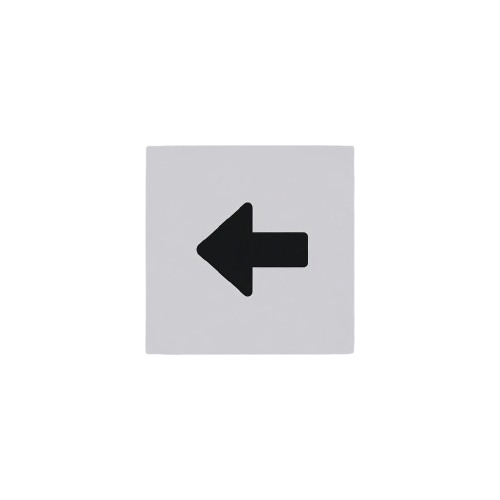
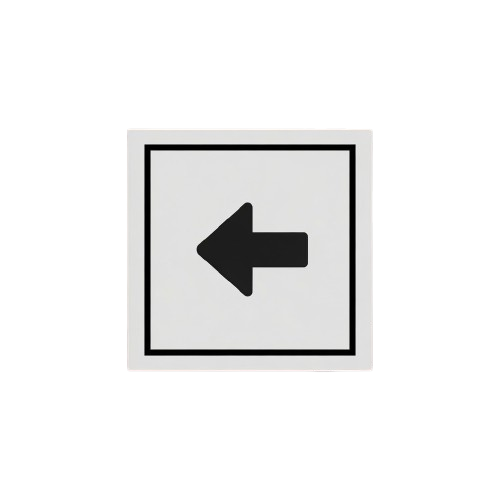
This is actually disgusting

Changed region(s): [[0.24, 0.24, 0.75, 0.75]]

diff --git a/interface.py b/interface.py
@@ -286,64 +286,107 @@ class DoubleCheckbox(Checkbox):
                 self._click()
             elif self.__rect2.collidepoint(*pygame.mouse.get_pos()[:2]):
                 self._antiClick()
-            
+
 class Image_Button(Input):
-    def __init__(self, window : pygame.surface.Surface, x : int, y : int, variable : str, path_1 : str, path_2 : str = None, scale_factor_1 : Tuple[int] = None, scale_factor_2 : Tuple[int] = None, key_bind : str = None):
-        """Creates button to be placed on screen"""
+    def __init__(self, window : pygame.surface.Surface, x : int, y : int, variable : str, image_path : str, scale_factor : Tuple[int] = (1,1), key_bind : str = None):
+        """Creates image button to be placed on screen"""
         self.__window = window
         self.__variable = variable
         self.__state = False
-        self.__off_shape = pygame.transform.scale_by(pygame.image.load(path_1).convert_alpha(), scale_factor_1)
-        self.__off_rect = self.__off_shape.get_rect()
-        self.__off_rect.center = (x, y)
-        self.__two_image_state = False
-        
 
-        if path_2:
-            self.__on_shape = pygame.transform.scale_by(pygame.image.load(path_2).convert_alpha(), scale_factor_2)
-            self.__on_rect = self.__on_shape.get_rect()
-            self.__on_rect.center = (x, y)
-            self.__two_image_state = True
-        
-        
+        self.__shape = pygame.transform.scale_by(pygame.image.load(image_path).convert_alpha(), scale_factor)
+        self.__rect = self.__shape.get_rect()
+        self.__rect.center = (x,y)
+
         try:
             self.__key_bind = pygame.key.key_code(key_bind)
         except TypeError:
             self.__key_bind = False
 
+
+    def place(self):
+        """Blits the image of the button"""
+        self.__window.blit(self.__shape, self.__rect)
+        
+    
+    def checkInteract(self, event : pygame.event.Event, keys : List[bool] = None):
+        """Checks for interactions"""
+        if tapping(event):
+            if self.__rect.collidepoint(*pygame.mouse.get_pos()[:2]):
+                self.__state = True
+                print("Yes")
+
+        if self.__key_bind:
+            if typing(event):
+                if keys[self.__key_bind]:
+                    self.__state = toggleVariable(self.__state)
+                    
+
+    def flip(self):
+        """Forces the variable to flip states"""
+        self.__state = toggleVariable(self.__state)
+
+    def getVariable(self):
+        """Returns associated variable"""
+        
+        return self.__variable
+
+
+    def getValue(self):
+        """Returns value"""
+        return self.__state 
+
+
+            
+class Dual_Image_Button(Input):
+    def __init__(self, window : pygame.surface.Surface, x : int, y : int, variable : str, path_1 : str, path_2 : str, scale_factor_1 : Tuple[int] = (1,1), scale_factor_2 : Tuple[int] = (1,1), key_bind : str = None):
+        """Creates dual image button to be placed on screen"""
+        self.__window = window
+        self.__variable = variable
+        self.__state = False
+
+        self.__off_shape = pygame.transform.scale_by(pygame.image.load(path_1).convert_alpha(), scale_factor_1)
+        self.__off_rect = self.__off_shape.get_rect()
+        self.__off_rect.center = (x, y)
+   
+    
+        self.__on_shape = pygame.transform.scale_by(pygame.image.load(path_2).convert_alpha(), scale_factor_2)
+        self.__on_rect = self.__on_shape.get_rect()
+        self.__on_rect.center = (x, y)
+       
+       
+        try:
+            self.__key_bind = pygame.key.key_code(key_bind)
+        except TypeError:
+            self.__key_bind = False
+        
     def place(self):
         """Blits the relevant image"""
-        if self.__two_image_state:
-            if self.__state:
-                    self.__window.blit(self.__on_shape, self.__on_rect)
-            else:
-                self.__window.blit(self.__off_shape, self.__off_rect)
+        if self.__state:
+            self.__window.blit(self.__on_shape, self.__on_rect)
         else:
             self.__window.blit(self.__off_shape, self.__off_rect)
-       
-
 
     def checkInteract(self, event : pygame.event.Event, keys : List[bool] = None):
         """Checks for interactions"""
         if tapping(event):
-            if self.__two_image_state:
-                if self.__state:
-                    if self.__on_rect.collidepoint(*pygame.mouse.get_pos()[:2]):
-                        self.__state = False
-                else:
-                    if self.__off_rect.collidepoint(*pygame.mouse.get_pos()[:2]):
-                        self.__state = True
+            if self.__state:
+                if self.__on_rect.collidepoint(*pygame.mouse.get_pos()[:2]):
+                    self.__state = False
             else:
                 if self.__off_rect.collidepoint(*pygame.mouse.get_pos()[:2]):
-                        self.__state = toggleVariable(self.__state)
+                    self.__state = True
+        
         if self.__key_bind:
             if typing(event):
                 if keys[self.__key_bind]:
                     self.__state = toggleVariable(self.__state)
 
+
     def getVariable(self):
         """Returns associated variable"""
         return self.__variable
+
 
     def getValue(self):
         """Returns value"""

diff --git a/main.py b/main.py
@@ -8,7 +8,7 @@ import time
 
 pygame.init()
 
-# Sets the constants of the screen surface
+# Sets the constants of the screen surfaced
 SCREEN_HEIGHT = 800
 SCREEN_WIDTH = 1600
 FRAME_RATE = 60
@@ -67,7 +67,7 @@ velocity_function_dropdown = ui.Dropdown(screen, SCREEN_WIDTH-200, 300, ["Tunnel
 custom_vf_label = ui.Label(screen, SCREEN_WIDTH-300, 350, "Custom:", 20, ui_bg)
 custom_vf_entry = ui.Entry(screen, SCREEN_WIDTH-240, 350, data["velocity_function"], "velocity_function", str, 22, 230, 17)
 
-select_object_button = ui.Image_Button(screen, SCREEN_WIDTH-175, 450, "show_objects", "images\\select_object.png", scale_factor_1=[0.5,0.5])
+select_object_button = ui.Image_Button(screen, SCREEN_WIDTH-175, 450, "show_objects", "images\\select_object.png", (0.5,0.5))
 
 border_data_box = ui.Box(screen,SCREEN_WIDTH-175, 500, 240, 1, "#000000")
 
@@ -91,12 +91,13 @@ control_interactable = (speed_entry, show_grid_doublecheckbox, field_rows_increm
 
 
 # Instantiates object selection components:
-back_from_objects_button = ui.Image_Button(screen, SCREEN_WIDTH-300, 30, "show_control", "images\\back_from_objects.png", scale_factor_1=[0.2, 0.2])
+back_from_objects_button = ui.Image_Button(screen, SCREEN_WIDTH-320, 30, "show_control", "images\\back_from_objects.png", (0.2, 0.2))
 
 object_objects = (back_from_objects_button, )
+object_interactable = (back_from_objects_button,)
 
 # Instantiates tank components
-flow_button = ui.Image_Button(screen, 22, 30, "flow", "images\\play_image.png", "images\\pause_image.png", (0.2, 0.2), (0.2, 0.2), "space")
+flow_button = ui.Dual_Image_Button(screen, 22, 30, "flow", "images\\play_image.png", "images\\pause_image.png", (0.2, 0.2), (0.2, 0.2), "space")
 vector_field = fluid.VectorField(screen, data["field_rows"], ["show_field", "field_rows", "flow", "speed"])
 
 tank_objects = (vector_field, flow_button)
@@ -144,12 +145,20 @@ while running:
                 if tapping(event) or (typing(event) and event.unicode == "\x0D"):
                     data[custom_vf_entry.getVariable()] = custom_vf_entry.getValue()
 
+        if data["show_objects"]:
+            for obj in object_interactable:
+                obj.checkInteract(event)
+                if tapping(event) or (typing(event) and event.unicode == "\x0D"):
+                        data[obj.getVariable()] = obj.getValue()
+
+
     # Places objects, when relevant    
     for obj in tank_objects:
             obj.place()
         
     if data["show_control"]:
         control_panel_box.place()
+
         if data["scenario"] == "custom":
             # Places bespoke objects
             custom_vf_label.place()
@@ -176,6 +185,8 @@ while running:
         control_panel_box.place()
         for obj in object_objects:
             obj.place()
+    
+
 
     # Updates the screen with changes that have been set in each loop
     pygame.display.flip()
@@ -184,5 +195,6 @@ while running:
     data["frame_rate"] = clock.get_fps()
     dt = clock.tick(FRAME_RATE) / 1000
 
-    print(data)
+    print(data)    
+
 pygame.quit()
